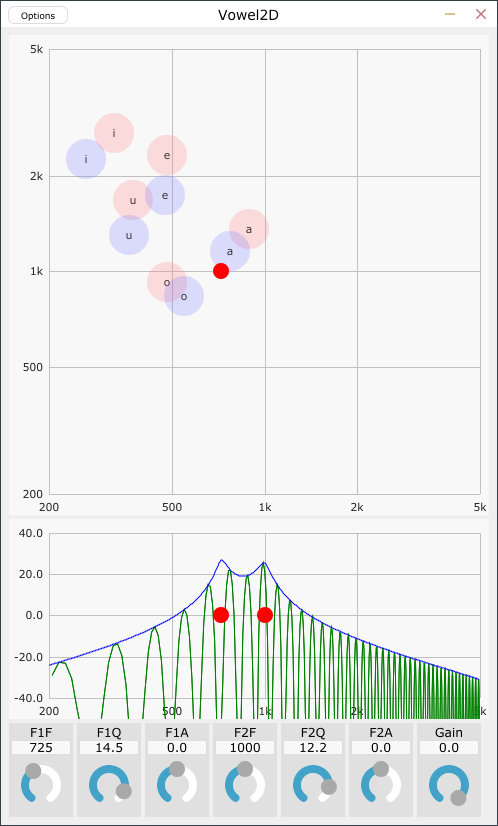
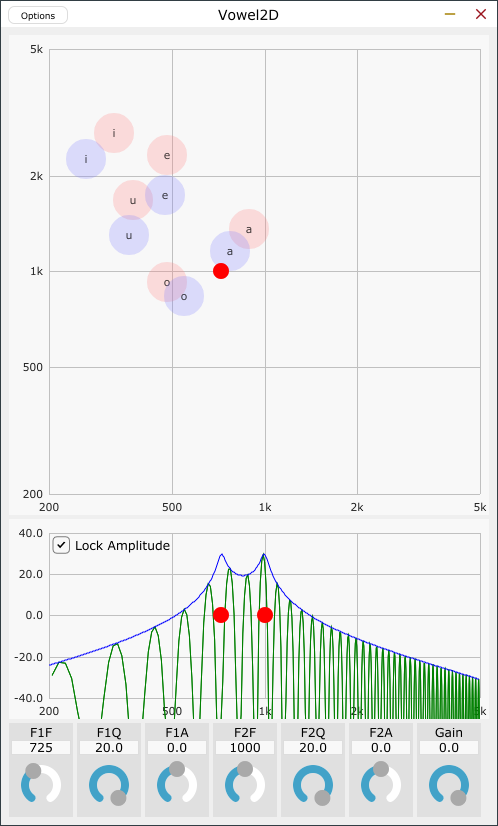
add amplitude lock ui

diff --git a/Source/PluginEditor.cpp b/Source/PluginEditor.cpp
@@ -265,10 +265,11 @@ public:
 		float a = 0;
 	};
 	std::array<Mkr, 2> mMkrs;
+	juce::ToggleButton mAmpLockButton;
 	AsyncInvoker mAsyncUpdateParams;
 	AsyncInvoker mAsyncUpdateRunStat;
 	AsyncInvoker mAsyncUpdateFftBuf;
-	enum { MarkerSize = 16 };
+	enum { MarkerSize = 16, CheckBocSize = 24 };
 	FPlotView(Vowel2DAudioProcessor* p)
 		: mProcessor(p)
 	{
@@ -303,9 +304,10 @@ public:
 			};
 			mkr.mk.onDragMove = [&mkr, this](juce::Point<int> pt)
 			{
+				bool amplock = mAmpLockButton.getToggleState();
 				juce::Point<int> ptl = getLocalPoint(&mkr.mk, pt);
 				mkr.paramf->setValueNotifyingHost(mkr.pcf->NativeToControl(x2f(ptl.x)));
-				mkr.parama->setValueNotifyingHost(mkr.pca->NativeToControl(y2a(ptl.y)));
+				if(!amplock) mkr.parama->setValueNotifyingHost(mkr.pca->NativeToControl(y2a(ptl.y)));
 			};
 			mkr.mk.onDragEnd = [&mkr]()
 			{
@@ -318,6 +320,9 @@ public:
 				mkr.parama->setValueNotifyingHost(mkr.parama->getDefaultValue());
 			};
 		}
+		mAmpLockButton.setButtonText("Lock Amplitude");
+		mAmpLockButton.setToggleState(true, juce::NotificationType::dontSendNotification);
+		addAndMakeVisible(mAmpLockButton);
 		mAsyncUpdateParams.onUpdate = [this]()
 		{
 			updateMarkerPosition(0);
@@ -445,6 +450,9 @@ public:
 		updateXZTable();
 		updateFiltPtTable();
 		updateFftPlotTable();
+		mAmpLockButton.setSize(128, CheckBocSize);
+		mAmpLockButton.changeWidthToFitText();
+		mAmpLockButton.setTopLeftPosition(mPlotRect.getTopLeft());
 	}
 	virtual void paint(juce::Graphics& g) override
 	{
